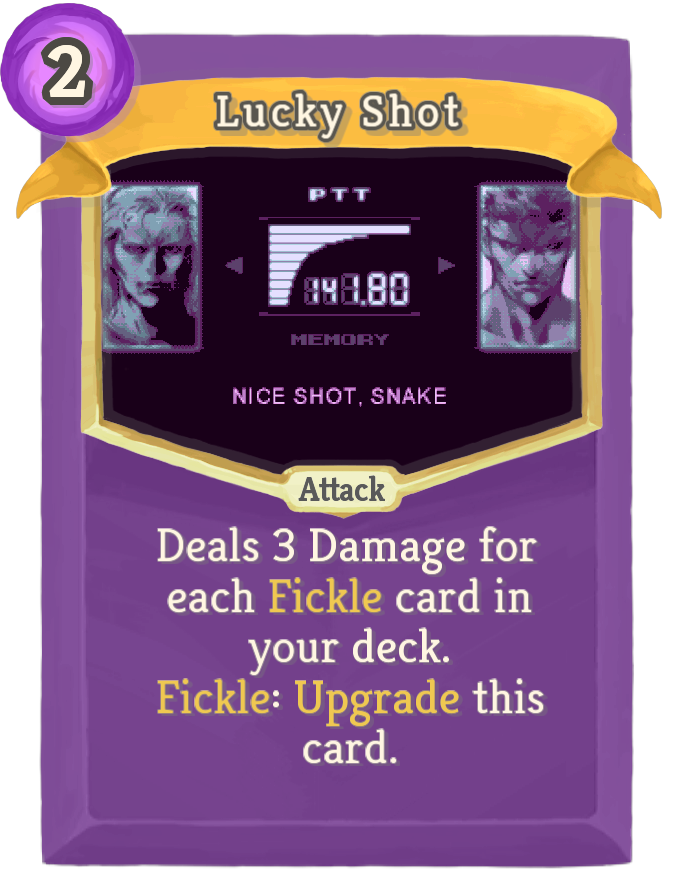
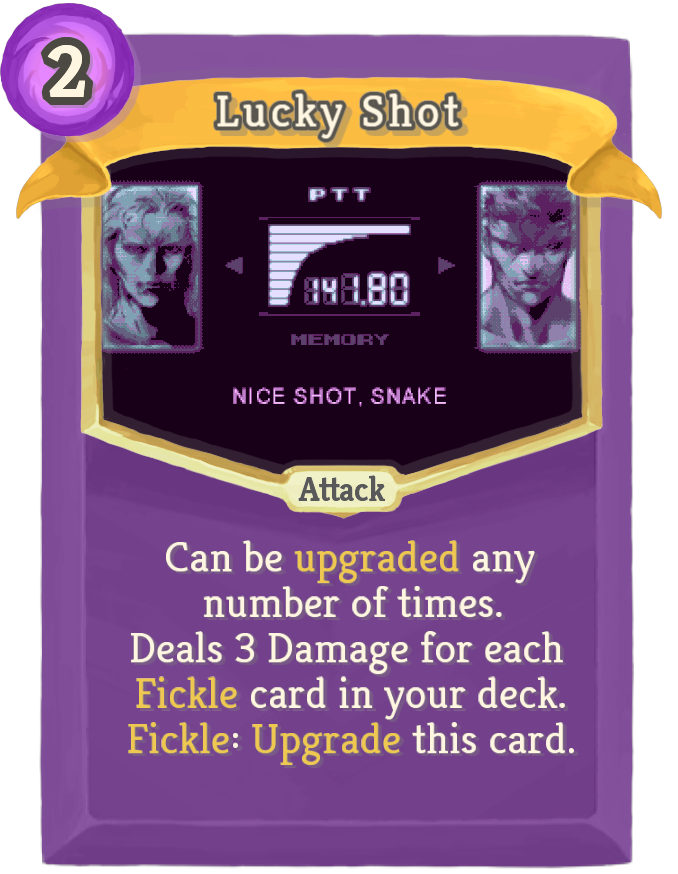
Updated Docs

Changed region(s): [[0.1858, 0.587, 0.8363, 0.8959]]

diff --git a/docs/index.html b/docs/index.html
@@ -388,6 +388,18 @@
     </tr>
 
     <tr>
+        <td>Cream And Sugar</td>
+        <td><a href="card-images/CreamAndSugar.png"><img height="298" src="small-card-images/CreamAndSugar.png"></a>
+        </td>
+        <td><a href="card-images/CreamAndSugarPlus.png"><img height="298" src="small-card-images/CreamAndSugarPlus.png"></a>
+        </td>
+        <td>Uncommon</td>
+        <td>Skill</td>
+        <td>1(0)</td>
+        <td>The next (1(2)) time(s) you gain [E] from basilmod:Caffeine, gain an extra [E].</td>
+    </tr>
+
+    <tr>
         <td>Due Date</td>
         <td><a href="card-images/DueDate.png"><img height="298" src="small-card-images/DueDate.png"></a></td>
         <td><a href="card-images/DueDatePlus.png"><img height="298" src="small-card-images/DueDatePlus.png"></a></td>
@@ -490,6 +502,19 @@
     </tr>
 
     <tr>
+        <td>Lucky Break</td>
+        <td><a href="card-images/LuckyBreak.png"><img height="298" src="small-card-images/LuckyBreak.png"></a></td>
+        <td><a href="card-images/LuckyBreakPlus.png"><img height="298" src="small-card-images/LuckyBreakPlus.png"></a>
+        </td>
+        <td>Uncommon</td>
+        <td>Skill</td>
+        <td></td>
+        <td>Unplayable.
+            When drawn, discard this card and draw 1(2) card(s).
+        </td>
+    </tr>
+
+    <tr>
         <td>Nightmares</td>
         <td><a href="card-images/Nightmares.png"><img height="298" src="small-card-images/Nightmares.png"></a></td>
         <td><a href="card-images/NightmaresPlus.png"><img height="298" src="small-card-images/NightmaresPlus.png"></a>
@@ -514,6 +539,18 @@
         <td>Deal 7(9) Damage to a random enemy.
             basilmod:Fickle: Gain 1(2) basilmod:Inebriated.
         </td>
+    </tr>
+
+    <tr>
+        <td>Piercing Strike</td>
+        <td><a href="card-images/PiercingStrike.png"><img height="298" src="small-card-images/PiercingStrike.png"></a>
+        </td>
+        <td><a href="card-images/PiercingStrikePlus.png"><img height="298"
+                                                              src="small-card-images/PiercingStrikePlus.png"></a></td>
+        <td>Uncommon</td>
+        <td>Attack</td>
+        <td>1</td>
+        <td>Deal 6(9) basilmod:Piercing Damage.</td>
     </tr>
 
     <tr>
@@ -588,6 +625,17 @@
             Remove all basilmod:Runescarred.
             Exhaust.
         </td>
+    </tr>
+
+    <tr>
+        <td>Thorn Arrow</td>
+        <td><a href="card-images/ThornArrow.png"><img height="298" src="small-card-images/ThornArrow.png"></a></td>
+        <td><a href="card-images/ThornArrowPlus.png"><img height="298" src="small-card-images/ThornArrowPlus.png"></a>
+        </td>
+        <td>Uncommon</td>
+        <td>Attack</td>
+        <td>1</td>
+        <td>Deal basilmod:Piercing Damage equal to (twice) your Thorns.</td>
     </tr>
 
     <tr>
@@ -675,7 +723,8 @@
         <td>Rare</td>
         <td>Attack</td>
         <td>2</td>
-        <td>Deals 3(4) Damage for each basilmod:Fickle card in your deck.
+        <td>Can be upgraded any number of times.
+            Deals 3(4) Damage for each basilmod:Fickle card in your deck.
             basilmod:Fickle: Upgrade this card.
         </td>
     </tr>
@@ -688,7 +737,8 @@
         <td>Rare</td>
         <td>Attack</td>
         <td>2</td>
-        <td>Deals 4 Damage for each basilmod:Fickle card in your deck.
+        <td>Can be upgraded any number of times.
+            Deals 4 Damage for each basilmod:Fickle card in your deck.
             basilmod:Fickle: Upgrade this card.
         </td>
     </tr>
@@ -765,6 +815,16 @@
         </td>
     </tr>
 
+    <tr>
+        <td>Thin Skin</td>
+        <td><a href="card-images/ThinSkin.png"><img height="298" src="small-card-images/ThinSkin.png"></a></td>
+        <td><a href="card-images/ThinSkinPlus.png"><img height="298" src="small-card-images/ThinSkinPlus.png"></a></td>
+        <td>Rare</td>
+        <td>Skill</td>
+        <td>X</td>
+        <td>Gain X Vulnerable and X times 3(5) basilmod:Runescarred.</td>
+    </tr>
+
 </table>
 
 
@@ -795,8 +855,19 @@
                 class="popup" src="relics/small-popup/EndlessMug.png"></a></td>
         <td>Uncommon</td>
         <td>Basil_purple_color</td>
-        <td>When you would gain [E] from <span class="color-y">Caffeine,</span> gain [E] [E] instead.</td>
+        <td>When you would gain [E] from <span class="color-y">Caffeine,</span> gain an extra [E] .</td>
         <td>Sleep is for people without infinite coffee.</td>
+    </tr>
+
+    <tr>
+        <td><a href="relics/popup/RuneBag.png">Rune Bag</a></td>
+        <td><img height="128" src="relics/RuneBag.png" width="128"><a href="relics/popup/RuneBag.png"><img class="popup"
+                                                                                                           src="relics/small-popup/RuneBag.png"></a>
+        </td>
+        <td>Uncommon</td>
+        <td>Basil_purple_color</td>
+        <td>Every 3 turns, draw a random <span class="color-y">Rune.</span></td>
+        <td>The basic example of probability, but for runescholars.</td>
     </tr>
 
     <tr>

diff --git a/docs/cards.html b/docs/cards.html
@@ -387,6 +387,18 @@
     </tr>
 
     <tr>
+        <td>Cream And Sugar</td>
+        <td><a href="card-images/CreamAndSugar.png"><img height="298" src="small-card-images/CreamAndSugar.png"></a>
+        </td>
+        <td><a href="card-images/CreamAndSugarPlus.png"><img height="298" src="small-card-images/CreamAndSugarPlus.png"></a>
+        </td>
+        <td>Uncommon</td>
+        <td>Skill</td>
+        <td>1(0)</td>
+        <td>The next (1(2)) time(s) you gain [E] from basilmod:Caffeine, gain an extra [E].</td>
+    </tr>
+
+    <tr>
         <td>Due Date</td>
         <td><a href="card-images/DueDate.png"><img height="298" src="small-card-images/DueDate.png"></a></td>
         <td><a href="card-images/DueDatePlus.png"><img height="298" src="small-card-images/DueDatePlus.png"></a></td>
@@ -489,6 +501,19 @@
     </tr>
 
     <tr>
+        <td>Lucky Break</td>
+        <td><a href="card-images/LuckyBreak.png"><img height="298" src="small-card-images/LuckyBreak.png"></a></td>
+        <td><a href="card-images/LuckyBreakPlus.png"><img height="298" src="small-card-images/LuckyBreakPlus.png"></a>
+        </td>
+        <td>Uncommon</td>
+        <td>Skill</td>
+        <td></td>
+        <td>Unplayable.
+            When drawn, discard this card and draw 1(2) card(s).
+        </td>
+    </tr>
+
+    <tr>
         <td>Nightmares</td>
         <td><a href="card-images/Nightmares.png"><img height="298" src="small-card-images/Nightmares.png"></a></td>
         <td><a href="card-images/NightmaresPlus.png"><img height="298" src="small-card-images/NightmaresPlus.png"></a>
@@ -513,6 +538,18 @@
         <td>Deal 7(9) Damage to a random enemy.
             basilmod:Fickle: Gain 1(2) basilmod:Inebriated.
         </td>
+    </tr>
+
+    <tr>
+        <td>Piercing Strike</td>
+        <td><a href="card-images/PiercingStrike.png"><img height="298" src="small-card-images/PiercingStrike.png"></a>
+        </td>
+        <td><a href="card-images/PiercingStrikePlus.png"><img height="298"
+                                                              src="small-card-images/PiercingStrikePlus.png"></a></td>
+        <td>Uncommon</td>
+        <td>Attack</td>
+        <td>1</td>
+        <td>Deal 6(9) basilmod:Piercing Damage.</td>
     </tr>
 
     <tr>
@@ -587,6 +624,17 @@
             Remove all basilmod:Runescarred.
             Exhaust.
         </td>
+    </tr>
+
+    <tr>
+        <td>Thorn Arrow</td>
+        <td><a href="card-images/ThornArrow.png"><img height="298" src="small-card-images/ThornArrow.png"></a></td>
+        <td><a href="card-images/ThornArrowPlus.png"><img height="298" src="small-card-images/ThornArrowPlus.png"></a>
+        </td>
+        <td>Uncommon</td>
+        <td>Attack</td>
+        <td>1</td>
+        <td>Deal basilmod:Piercing Damage equal to (twice) your Thorns.</td>
     </tr>
 
     <tr>
@@ -674,7 +722,8 @@
         <td>Rare</td>
         <td>Attack</td>
         <td>2</td>
-        <td>Deals 3(4) Damage for each basilmod:Fickle card in your deck.
+        <td>Can be upgraded any number of times.
+            Deals 3(4) Damage for each basilmod:Fickle card in your deck.
             basilmod:Fickle: Upgrade this card.
         </td>
     </tr>
@@ -687,7 +736,8 @@
         <td>Rare</td>
         <td>Attack</td>
         <td>2</td>
-        <td>Deals 4 Damage for each basilmod:Fickle card in your deck.
+        <td>Can be upgraded any number of times.
+            Deals 4 Damage for each basilmod:Fickle card in your deck.
             basilmod:Fickle: Upgrade this card.
         </td>
     </tr>
@@ -762,6 +812,16 @@
         <td>Double (Triple) your basilmod:Runescarred.
             Exhaust.
         </td>
+    </tr>
+
+    <tr>
+        <td>Thin Skin</td>
+        <td><a href="card-images/ThinSkin.png"><img height="298" src="small-card-images/ThinSkin.png"></a></td>
+        <td><a href="card-images/ThinSkinPlus.png"><img height="298" src="small-card-images/ThinSkinPlus.png"></a></td>
+        <td>Rare</td>
+        <td>Skill</td>
+        <td>X</td>
+        <td>Gain X Vulnerable and X times 3(5) basilmod:Runescarred.</td>
     </tr>
 
 </table>

diff --git a/docs/relics.html b/docs/relics.html
@@ -33,8 +33,19 @@
                 class="popup" src="relics/small-popup/EndlessMug.png"></a></td>
         <td>Uncommon</td>
         <td>Basil_purple_color</td>
-        <td>When you would gain [E] from <span class="color-y">Caffeine,</span> gain [E] [E] instead.</td>
+        <td>When you would gain [E] from <span class="color-y">Caffeine,</span> gain an extra [E] .</td>
         <td>Sleep is for people without infinite coffee.</td>
+    </tr>
+
+    <tr>
+        <td><a href="relics/popup/RuneBag.png">Rune Bag</a></td>
+        <td><img height="128" src="relics/RuneBag.png" width="128"><a href="relics/popup/RuneBag.png"><img class="popup"
+                                                                                                           src="relics/small-popup/RuneBag.png"></a>
+        </td>
+        <td>Uncommon</td>
+        <td>Basil_purple_color</td>
+        <td>Every 3 turns, draw a random <span class="color-y">Rune.</span></td>
+        <td>The basic example of probability, but for runescholars.</td>
     </tr>
 
     <tr>

diff --git a/docs/index.md b/docs/index.md
@@ -35,6 +35,7 @@
 | Cawcawphony | ![](small-card-images/Cawcawphony.png) | ![](small-card-images/CawcawphonyPlus.png) | Uncommon | Attack | 2 | Deal 2(3) Damage to a random enemy 10 times. |
 | Cleanse | ![](small-card-images/Cleanse.png) | ![](small-card-images/CleansePlus.png) | Uncommon | Attack | 2 | Deal 5(8) damage to a random enemy for each stack of basilmod:Runescarred. Remove all basilmod:Runescarred. Not affected by strength. |
 | Coffee | ![](small-card-images/Coffee.png) | ![](small-card-images/CoffeePlus.png) | Uncommon | Power | 3(2) | Gain 2 basilmod:Caffeine each turn. |
+| Cream And Sugar | ![](small-card-images/CreamAndSugar.png) | ![](small-card-images/CreamAndSugarPlus.png) | Uncommon | Skill | 1(0) | The next (1(2)) time(s) you gain [E] from basilmod:Caffeine, gain an extra [E]. |
 | Due Date | ![](small-card-images/DueDate.png) | ![](small-card-images/DueDatePlus.png) | Uncommon | Skill | 2(1) | Innate. Can only be played if enemy is at full HP. If you defeat this enemy within !basilMod:DueDateValue! turns (10% of Enemy's HP), gain !basilMod:DueDateValue! Max HP. Exhaust. |
 | Earth Rune | ![](small-card-images/EarthRune.png) | ![](small-card-images/EarthRunePlus.png) | Uncommon | Skill | 1 | basilmod:Rune. Gain Block for each enemy in combat based on your basilmod:Runescarred. Exhaust. (not Exhaust.) |
 | Experiment | ![](small-card-images/Experiment.png) | ![](small-card-images/ExperimentPlus.png) | Uncommon | Skill | 1 | Add basilmod:Research (basilmod:Research+) to your hand and Exhaust. basilmod:Fickle: Draw 2(3) cards. |
@@ -42,28 +43,32 @@
 | Flame Rune | ![](small-card-images/FlameRune.png) | ![](small-card-images/FlameRunePlus.png) | Uncommon | Attack | 1 | basilmod:Rune. Deal 1 Damage and gain Strength based on your basilmod:Runescarred. Exhaust. (not Exhaust.) |
 | Frost Rune | ![](small-card-images/FrostRune.png) | ![](small-card-images/FrostRunePlus.png) | Uncommon | Skill | 1 | basilmod:Rune. Apply Slow based on your basilmod:Runescarred. Exhaust. (not Exhaust.) |
 | Lightning Rune | ![](small-card-images/LightningRune.png) | ![](small-card-images/LightningRunePlus.png) | Uncommon | Attack | 1 | basilmod:Rune. Damage all enemies based on your basilmod:Runescarred. Exhaust. (not Exhaust.) |
+| Lucky Break | ![](small-card-images/LuckyBreak.png) | ![](small-card-images/LuckyBreakPlus.png) | Uncommon | Skill |  | Unplayable. When drawn, discard this card and draw 1(2) card(s). |
 | Nightmares | ![](small-card-images/Nightmares.png) | ![](small-card-images/NightmaresPlus.png) | Uncommon | Skill |  | Unplayable. At the end of your turn, gain 5(10) Thorns. basilmod:Fickle: Take 5(10) Damage. |
 | Nock One Back | ![](small-card-images/NockOneBack.png) | ![](small-card-images/NockOneBackPlus.png) | Uncommon | Attack | 1 | Deal 7(9) Damage to a random enemy. basilmod:Fickle: Gain 1(2) basilmod:Inebriated. |
+| Piercing Strike | ![](small-card-images/PiercingStrike.png) | ![](small-card-images/PiercingStrikePlus.png) | Uncommon | Attack | 1 | Deal 6(9) basilmod:Piercing Damage. |
 | Robin Hood | ![](small-card-images/RobinHood.png) | ![](small-card-images/RobinHoodPlus.png) | Uncommon | Attack | 1 | Deal 6(9) Damage and gain 1(2) gold for each point of unblocked damage. |
 | Rope Arrow | ![](small-card-images/RopeArrow.png) | ![](small-card-images/RopeArrowPlus.png) | Uncommon | Attack | 2(1) | Deal 3 Damage and apply 3 Constricted. |
 | Runeburn | ![](small-card-images/Runeburn.png) | ![](small-card-images/RuneburnPlus.png) | Uncommon | Power | 2 | (Innate.)  At the end of your turn, do damage equal to your basilmod:Runescarred to a random enemy. |
 | Shots! | ![](small-card-images/Shots!.png) | ![](small-card-images/Shots!Plus.png) | Uncommon | Attack | 1 | Deal 3(5) Damage to ALL enemies. If you have basilmod:Inebriated, increase this damage by 2(3). |
 | Sleepless Night | ![](small-card-images/SleeplessNight.png) | ![](small-card-images/SleeplessNightPlus.png) | Uncommon | Skill | 2(1) | Apply 2(3) Vulnerable and Weak to all enemies. basilmod:Fickle: Lose [E] and gain 2 basilmod:Caffeine. |
 | Take A Break! | ![](small-card-images/TakeABreak!.png) | ![](small-card-images/TakeABreak!Plus.png) | Uncommon | Skill | 2 | Heal 2(3) HP for each stack of basilmod:Runescarred. Remove all basilmod:Runescarred. Exhaust. |
+| Thorn Arrow | ![](small-card-images/ThornArrow.png) | ![](small-card-images/ThornArrowPlus.png) | Uncommon | Attack | 1 | Deal basilmod:Piercing Damage equal to (twice) your Thorns. |
 | Whiskey | ![](small-card-images/Whiskey.png) | ![](small-card-images/WhiskeyPlus.png) | Uncommon | Power | 3(2) | Gain 2 extra Strength and Dexterity from basilmod:Inebriated . |
 | Astral Brew | ![](small-card-images/AstralBrew.png) | ![](small-card-images/AstralBrewPlus.png) | Rare | Skill | 2(1) | Gain 1 Intangible. |
 | Crow Rune | ![](small-card-images/CrowRune.png) | ![](small-card-images/CrowRunePlus.png) | Rare | Power | 2 | basilmod:Rune. Gain Flight based on your basilmod:Runescarred. Ethereal. (not Ethereal.) |
 | Fae Form | ![](small-card-images/FaeForm.png) | ![](small-card-images/FaeFormPlus.png) | Rare | Power | 3(2) | At the end of your turn, gain a random amount of one of the following: Thorns, Artifact, Strength, or Dexterity. basilmod:Fickle: Draw a card. |
 | Faerie Rune | ![](small-card-images/FaerieRune.png) | ![](small-card-images/FaerieRunePlus.png) | Rare | Power | 2 | basilmod:Rune. If you would die, Heal a percent of your Max HP based on your current basilmod:Runescarred. Ethereal. (not Ethereal.) |
 | Finals Week | ![](small-card-images/FinalsWeek.png) | ![](small-card-images/FinalsWeekPlus.png) | Rare | Attack | 7 | This card's cost cannot be externally modified. Deal 7 Damage 7 times to all enemies and Exhaust. basilmod:Fickle: Reduce this card's cost by 1(2). |
-| Lucky Shot | ![](small-card-images/LuckyShot.png) | ![](small-card-images/LuckyShotPlus1.png) | Rare | Attack | 2 | Deals 3(4) Damage for each basilmod:Fickle card in your deck. basilmod:Fickle: Upgrade this card. |
-| Lucky Shot+1 | ![](small-card-images/LuckyShotPlus1.png) | ![]() | Rare | Attack | 2 | Deals 4 Damage for each basilmod:Fickle card in your deck. basilmod:Fickle: Upgrade this card. |
+| Lucky Shot | ![](small-card-images/LuckyShot.png) | ![](small-card-images/LuckyShotPlus1.png) | Rare | Attack | 2 | Can be upgraded any number of times. Deals 3(4) Damage for each basilmod:Fickle card in your deck. basilmod:Fickle: Upgrade this card. |
+| Lucky Shot+1 | ![](small-card-images/LuckyShotPlus1.png) | ![]() | Rare | Attack | 2 | Can be upgraded any number of times. Deals 4 Damage for each basilmod:Fickle card in your deck. basilmod:Fickle: Upgrade this card. |
 | Mixed Bag | ![](small-card-images/MixedBag.png) | ![](small-card-images/MixedBagPlus.png) | Rare | Skill | 1 | Draw 3 (Upgraded) basilmod:Runes. |
 | Naptime | ![](small-card-images/Naptime.png) | ![](small-card-images/NaptimePlus.png) | Rare | Skill | 3(2) | Put all enemies to sleep. Exhaust. |
 | Procrastinate | ![](small-card-images/Procrastinate.png) | ![](small-card-images/ProcrastinatePlus.png) | Rare | Skill | 0 | Every time you draw this card, increase its effects by 1(2). Gain !basilMod:MiscValue! stacks of basilmod:Regen, Strength, and Dexterity. Exhaust. |
 | Rebuttal | ![](small-card-images/Rebuttal.png) | ![](small-card-images/RebuttalPlus.png) | Rare | Attack | 4(3) | Deal Damage for each attack you've taken this combat and reset this card. |
 | Retribution | ![](small-card-images/Retribution.png) | ![](small-card-images/RetributionPlus.png) | Rare | Power | 2(1) | Whenever an enemy inflicts a debuff, apply 2 Constricted to ALL enemies. |
 | Runic Overload | ![](small-card-images/RunicOverload.png) | ![](small-card-images/RunicOverloadPlus.png) | Rare | Skill | 2 | Double (Triple) your basilmod:Runescarred. Exhaust. |
+| Thin Skin | ![](small-card-images/ThinSkin.png) | ![](small-card-images/ThinSkinPlus.png) | Rare | Skill | X | Gain X Vulnerable and X times 3(5) basilmod:Runescarred. |
 
 
 
@@ -83,7 +88,8 @@
 | Image | Name | Rarity | Color | Description | Flavor |
 | ----- | ---- | ------ | ----- | ----------- | ------ |
 | ![](relics/ScholarsNotes.png) | Scholar's Notes | Starter | Basil_purple_color | At the start of combat, choose a card to add to your hand from your deck. | The deranged writings of a scholar well behind on his grant proposals. |
-| ![](relics/EndlessMug.png) | Endless Mug | Uncommon | Basil_purple_color | When you would gain [E] from #yCaffeine, gain [E] [E] instead. | Sleep is for people without infinite coffee. |
+| ![](relics/EndlessMug.png) | Endless Mug | Uncommon | Basil_purple_color | When you would gain [E] from #yCaffeine, gain an extra [E] . | Sleep is for people without infinite coffee. |
+| ![](relics/RuneBag.png) | Rune Bag | Uncommon | Basil_purple_color | Every 3 turns, draw a random #yRune. | The basic example of probability, but for runescholars. |
 | ![](relics/TrickCoin.png) | Trick Coin | Uncommon | Basil_purple_color | #yFickle cards are #g25% #gless likely to activate on heads, and #r25% #rmore likely to activate on tails. Right click to flip. | Who needs luck when you can cheat? |
 | ![](relics/ScholarsThesis.png) | Scholar's Thesis | Boss | Basil_purple_color | Every 3 turns, choose a card to add to your hand from your deck. NL Replaces Scholar's Notes. | I sure hope that angel got their degree. |
 

diff --git a/docs/cards.md b/docs/cards.md
@@ -32,6 +32,7 @@
 | Cawcawphony | ![](small-card-images/Cawcawphony.png) | ![](small-card-images/CawcawphonyPlus.png) | Uncommon | Attack | 2 | Deal 2(3) Damage to a random enemy 10 times. |
 | Cleanse | ![](small-card-images/Cleanse.png) | ![](small-card-images/CleansePlus.png) | Uncommon | Attack | 2 | Deal 5(8) damage to a random enemy for each stack of basilmod:Runescarred. Remove all basilmod:Runescarred. Not affected by strength. |
 | Coffee | ![](small-card-images/Coffee.png) | ![](small-card-images/CoffeePlus.png) | Uncommon | Power | 3(2) | Gain 2 basilmod:Caffeine each turn. |
+| Cream And Sugar | ![](small-card-images/CreamAndSugar.png) | ![](small-card-images/CreamAndSugarPlus.png) | Uncommon | Skill | 1(0) | The next (1(2)) time(s) you gain [E] from basilmod:Caffeine, gain an extra [E]. |
 | Due Date | ![](small-card-images/DueDate.png) | ![](small-card-images/DueDatePlus.png) | Uncommon | Skill | 2(1) | Innate. Can only be played if enemy is at full HP. If you defeat this enemy within !basilMod:DueDateValue! turns (10% of Enemy's HP), gain !basilMod:DueDateValue! Max HP. Exhaust. |
 | Earth Rune | ![](small-card-images/EarthRune.png) | ![](small-card-images/EarthRunePlus.png) | Uncommon | Skill | 1 | basilmod:Rune. Gain Block for each enemy in combat based on your basilmod:Runescarred. Exhaust. (not Exhaust.) |
 | Experiment | ![](small-card-images/Experiment.png) | ![](small-card-images/ExperimentPlus.png) | Uncommon | Skill | 1 | Add basilmod:Research (basilmod:Research+) to your hand and Exhaust. basilmod:Fickle: Draw 2(3) cards. |
@@ -39,25 +40,29 @@
 | Flame Rune | ![](small-card-images/FlameRune.png) | ![](small-card-images/FlameRunePlus.png) | Uncommon | Attack | 1 | basilmod:Rune. Deal 1 Damage and gain Strength based on your basilmod:Runescarred. Exhaust. (not Exhaust.) |
 | Frost Rune | ![](small-card-images/FrostRune.png) | ![](small-card-images/FrostRunePlus.png) | Uncommon | Skill | 1 | basilmod:Rune. Apply Slow based on your basilmod:Runescarred. Exhaust. (not Exhaust.) |
 | Lightning Rune | ![](small-card-images/LightningRune.png) | ![](small-card-images/LightningRunePlus.png) | Uncommon | Attack | 1 | basilmod:Rune. Damage all enemies based on your basilmod:Runescarred. Exhaust. (not Exhaust.) |
+| Lucky Break | ![](small-card-images/LuckyBreak.png) | ![](small-card-images/LuckyBreakPlus.png) | Uncommon | Skill |  | Unplayable. When drawn, discard this card and draw 1(2) card(s). |
 | Nightmares | ![](small-card-images/Nightmares.png) | ![](small-card-images/NightmaresPlus.png) | Uncommon | Skill |  | Unplayable. At the end of your turn, gain 5(10) Thorns. basilmod:Fickle: Take 5(10) Damage. |
 | Nock One Back | ![](small-card-images/NockOneBack.png) | ![](small-card-images/NockOneBackPlus.png) | Uncommon | Attack | 1 | Deal 7(9) Damage to a random enemy. basilmod:Fickle: Gain 1(2) basilmod:Inebriated. |
+| Piercing Strike | ![](small-card-images/PiercingStrike.png) | ![](small-card-images/PiercingStrikePlus.png) | Uncommon | Attack | 1 | Deal 6(9) basilmod:Piercing Damage. |
 | Robin Hood | ![](small-card-images/RobinHood.png) | ![](small-card-images/RobinHoodPlus.png) | Uncommon | Attack | 1 | Deal 6(9) Damage and gain 1(2) gold for each point of unblocked damage. |
 | Rope Arrow | ![](small-card-images/RopeArrow.png) | ![](small-card-images/RopeArrowPlus.png) | Uncommon | Attack | 2(1) | Deal 3 Damage and apply 3 Constricted. |
 | Runeburn | ![](small-card-images/Runeburn.png) | ![](small-card-images/RuneburnPlus.png) | Uncommon | Power | 2 | (Innate.)  At the end of your turn, do damage equal to your basilmod:Runescarred to a random enemy. |
 | Shots! | ![](small-card-images/Shots!.png) | ![](small-card-images/Shots!Plus.png) | Uncommon | Attack | 1 | Deal 3(5) Damage to ALL enemies. If you have basilmod:Inebriated, increase this damage by 2(3). |
 | Sleepless Night | ![](small-card-images/SleeplessNight.png) | ![](small-card-images/SleeplessNightPlus.png) | Uncommon | Skill | 2(1) | Apply 2(3) Vulnerable and Weak to all enemies. basilmod:Fickle: Lose [E] and gain 2 basilmod:Caffeine. |
 | Take A Break! | ![](small-card-images/TakeABreak!.png) | ![](small-card-images/TakeABreak!Plus.png) | Uncommon | Skill | 2 | Heal 2(3) HP for each stack of basilmod:Runescarred. Remove all basilmod:Runescarred. Exhaust. |
+| Thorn Arrow | ![](small-card-images/ThornArrow.png) | ![](small-card-images/ThornArrowPlus.png) | Uncommon | Attack | 1 | Deal basilmod:Piercing Damage equal to (twice) your Thorns. |
 | Whiskey | ![](small-card-images/Whiskey.png) | ![](small-card-images/WhiskeyPlus.png) | Uncommon | Power | 3(2) | Gain 2 extra Strength and Dexterity from basilmod:Inebriated . |
 | Astral Brew | ![](small-card-images/AstralBrew.png) | ![](small-card-images/AstralBrewPlus.png) | Rare | Skill | 2(1) | Gain 1 Intangible. |
 | Crow Rune | ![](small-card-images/CrowRune.png) | ![](small-card-images/CrowRunePlus.png) | Rare | Power | 2 | basilmod:Rune. Gain Flight based on your basilmod:Runescarred. Ethereal. (not Ethereal.) |
 | Fae Form | ![](small-card-images/FaeForm.png) | ![](small-card-images/FaeFormPlus.png) | Rare | Power | 3(2) | At the end of your turn, gain a random amount of one of the following: Thorns, Artifact, Strength, or Dexterity. basilmod:Fickle: Draw a card. |
 | Faerie Rune | ![](small-card-images/FaerieRune.png) | ![](small-card-images/FaerieRunePlus.png) | Rare | Power | 2 | basilmod:Rune. If you would die, Heal a percent of your Max HP based on your current basilmod:Runescarred. Ethereal. (not Ethereal.) |
 | Finals Week | ![](small-card-images/FinalsWeek.png) | ![](small-card-images/FinalsWeekPlus.png) | Rare | Attack | 7 | This card's cost cannot be externally modified. Deal 7 Damage 7 times to all enemies and Exhaust. basilmod:Fickle: Reduce this card's cost by 1(2). |
-| Lucky Shot | ![](small-card-images/LuckyShot.png) | ![](small-card-images/LuckyShotPlus1.png) | Rare | Attack | 2 | Deals 3(4) Damage for each basilmod:Fickle card in your deck. basilmod:Fickle: Upgrade this card. |
-| Lucky Shot+1 | ![](small-card-images/LuckyShotPlus1.png) | ![]() | Rare | Attack | 2 | Deals 4 Damage for each basilmod:Fickle card in your deck. basilmod:Fickle: Upgrade this card. |
+| Lucky Shot | ![](small-card-images/LuckyShot.png) | ![](small-card-images/LuckyShotPlus1.png) | Rare | Attack | 2 | Can be upgraded any number of times. Deals 3(4) Damage for each basilmod:Fickle card in your deck. basilmod:Fickle: Upgrade this card. |
+| Lucky Shot+1 | ![](small-card-images/LuckyShotPlus1.png) | ![]() | Rare | Attack | 2 | Can be upgraded any number of times. Deals 4 Damage for each basilmod:Fickle card in your deck. basilmod:Fickle: Upgrade this card. |
 | Mixed Bag | ![](small-card-images/MixedBag.png) | ![](small-card-images/MixedBagPlus.png) | Rare | Skill | 1 | Draw 3 (Upgraded) basilmod:Runes. |
 | Naptime | ![](small-card-images/Naptime.png) | ![](small-card-images/NaptimePlus.png) | Rare | Skill | 3(2) | Put all enemies to sleep. Exhaust. |
 | Procrastinate | ![](small-card-images/Procrastinate.png) | ![](small-card-images/ProcrastinatePlus.png) | Rare | Skill | 0 | Every time you draw this card, increase its effects by 1(2). Gain !basilMod:MiscValue! stacks of basilmod:Regen, Strength, and Dexterity. Exhaust. |
 | Rebuttal | ![](small-card-images/Rebuttal.png) | ![](small-card-images/RebuttalPlus.png) | Rare | Attack | 4(3) | Deal Damage for each attack you've taken this combat and reset this card. |
 | Retribution | ![](small-card-images/Retribution.png) | ![](small-card-images/RetributionPlus.png) | Rare | Power | 2(1) | Whenever an enemy inflicts a debuff, apply 2 Constricted to ALL enemies. |
 | Runic Overload | ![](small-card-images/RunicOverload.png) | ![](small-card-images/RunicOverloadPlus.png) | Rare | Skill | 2 | Double (Triple) your basilmod:Runescarred. Exhaust. |
+| Thin Skin | ![](small-card-images/ThinSkin.png) | ![](small-card-images/ThinSkinPlus.png) | Rare | Skill | X | Gain X Vulnerable and X times 3(5) basilmod:Runescarred. |

diff --git a/docs/relics.md b/docs/relics.md
@@ -1,6 +1,7 @@
 | Image | Name | Rarity | Color | Description | Flavor |
 | ----- | ---- | ------ | ----- | ----------- | ------ |
 | ![](relics/ScholarsNotes.png) | Scholar's Notes | Starter | Basil_purple_color | At the start of combat, choose a card to add to your hand from your deck. | The deranged writings of a scholar well behind on his grant proposals. |
-| ![](relics/EndlessMug.png) | Endless Mug | Uncommon | Basil_purple_color | When you would gain [E] from #yCaffeine, gain [E] [E] instead. | Sleep is for people without infinite coffee. |
+| ![](relics/EndlessMug.png) | Endless Mug | Uncommon | Basil_purple_color | When you would gain [E] from #yCaffeine, gain an extra [E] . | Sleep is for people without infinite coffee. |
+| ![](relics/RuneBag.png) | Rune Bag | Uncommon | Basil_purple_color | Every 3 turns, draw a random #yRune. | The basic example of probability, but for runescholars. |
 | ![](relics/TrickCoin.png) | Trick Coin | Uncommon | Basil_purple_color | #yFickle cards are #g25% #gless likely to activate on heads, and #r25% #rmore likely to activate on tails. Right click to flip. | Who needs luck when you can cheat? |
 | ![](relics/ScholarsThesis.png) | Scholar's Thesis | Boss | Basil_purple_color | Every 3 turns, choose a card to add to your hand from your deck. NL Replaces Scholar's Notes. | I sure hope that angel got their degree. |
